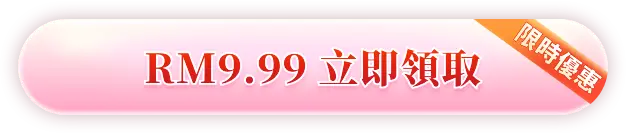
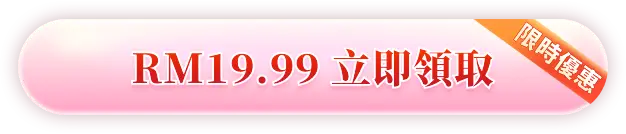
BugFix:引导页遮罩层类型错误、感情报告价格调整19.9

Changed region(s): [[0.1821, 0.3582, 0.7891, 0.6866]]

diff --git a/src/pages/lucky_year_report/home/index.vue b/src/pages/lucky_year_report/home/index.vue
@@ -622,21 +622,21 @@ export default {
         Toast(this.$t('tips-3'));
         return;
       }
-      if (time_obj.year > 2000 || time_obj.year < 1960) {
-        utils.firebaseLogEvent(
-          '10005',
-          '-10002',
-          'click_2024wealty_main',
-          'click',
-          {
-            args_name: 'click_2024wealty_main',
-            channel: utils.getFBChannel(),
-            click_type: 'error',
-          }
-        );
-        Toast(this.$t('tips-5'));
-        return;
-      }
+      // if (time_obj.year > 2000 || time_obj.year < 1960) {
+      //   utils.firebaseLogEvent(
+      //     '10005',
+      //     '-10002',
+      //     'click_2024wealty_main',
+      //     'click',
+      //     {
+      //       args_name: 'click_2024wealty_main',
+      //       channel: utils.getFBChannel(),
+      //       click_type: 'error',
+      //     }
+      //   );
+      //   Toast(this.$t('tips-5'));
+      //   return;
+      // }
       if (!this.privacyChecked) {
         utils.firebaseLogEvent(
           '10005',

diff --git a/src/pages/weigh_bone/result/index.vue b/src/pages/weigh_bone/result/index.vue
@@ -1,6 +1,6 @@
 <template>
   <div :class="['main', show_pop_modal? 'hidden-scroll': '']">    
-    <ResultPopup product_key="h5_emotion2024" @change_pop_modal="change_pop_modal" :transfer_code="fortune.transfer_code|| ''" /> 
+    <ResultPopup product_key="h5_weigh_bone" @change_pop_modal="change_pop_modal" :transfer_code="fortune.transfer_code|| ''" /> 
     <userInfo v-if="user_info" :is_result="true" :user_detail="user_info" />
     <content-detail v-if="fortune.weight" :fortune="fortune" :card_index="1" />
     <content-detail

diff --git a/src/pages/guiguzi_fortune/result/index.vue b/src/pages/guiguzi_fortune/result/index.vue
@@ -1,6 +1,6 @@
 <template>
   <div :class="['detail', 'result-detail', show_pop_modal? 'hidden-scroll': '']">  
-    <ResultPopup product_key="h5_emotion2024" @change_pop_modal="change_pop_modal" :transfer_code="transfer_code|| ''" />
+    <ResultPopup product_key="h5_bai_gua" @change_pop_modal="change_pop_modal" :transfer_code="transfer_code|| ''" />
     <user-info v-if="extra_ce_suan.name" :extra_ce_suan="extra_ce_suan" />
     <div class="main-outer">
       <div class="main">

diff --git a/src/pages/career_fortune_2024/result/index.vue b/src/pages/career_fortune_2024/result/index.vue
@@ -1,6 +1,6 @@
 <template>
   <div :class="['detail', 'result-detail', show_pop_modal? 'hidden-scroll': '']">
-    <ResultPopup product_key="h5_emotion2024" @change_pop_modal="change_pop_modal" :transfer_code="result.transfer_code|| ''" />
+    <ResultPopup product_key="h5_career2024" @change_pop_modal="change_pop_modal" :transfer_code="result.transfer_code|| ''" />
     <user-info
       v-if="extra_ce_suan.name"
       :extra_ce_suan="extra_ce_suan"

diff --git a/src/pages/year_of_lucky_2024/result/index.vue b/src/pages/year_of_lucky_2024/result/index.vue
@@ -7,7 +7,7 @@
 -->
 <template>
   <div :class="['result', show_pop_modal? 'hidden-scroll': '']">   
-    <ResultPopup product_key="h5_emotion2024" @change_pop_modal="change_pop_modal" :transfer_code="fortune.transfer_code|| ''" />  
+    <ResultPopup product_key="h5_annual2024" @change_pop_modal="change_pop_modal" :transfer_code="fortune.transfer_code|| ''" />  
     <!-- <UserInfo
       :username="username"
       :sex="sex"

diff --git a/src/pages/lucky_year_report/result/index.vue b/src/pages/lucky_year_report/result/index.vue
@@ -7,7 +7,7 @@
 -->
 <template>
   <div :class="['detail', 'result-detail', show_pop_modal? 'hidden-scroll': '']">    
-    <ResultPopup product_key="h5_emotion2024" @change_pop_modal="change_pop_modal" :transfer_code="transfer_code|| ''" />
+    <ResultPopup product_key="h5_wealth2024" @change_pop_modal="change_pop_modal" :transfer_code="transfer_code|| ''" />
     <top-banner />
     <img
       class="person-title"

diff --git a/src/pages/marriage_measure_overseas/result/index.vue b/src/pages/marriage_measure_overseas/result/index.vue
@@ -1,6 +1,6 @@
 <template>
   <div :class="['detail', 'result-detail', show_pop_modal? 'hidden-scroll': '']">  
-    <ResultPopup product_key="h5_emotion2024" @change_pop_modal="change_pop_modal" :transfer_code="transfer_code|| ''" />  
+    <ResultPopup product_key="h5_marriage" @change_pop_modal="change_pop_modal" :transfer_code="transfer_code|| ''" />  
     <top-banner />
 
     <!-- 新版信息start -->

diff --git a/src/pages/marriage_measure_overseas/home/index.vue b/src/pages/marriage_measure_overseas/home/index.vue
@@ -132,7 +132,7 @@
       <!-- 時間選擇控件 -->
       <DatetimePicker
         :male="sex"
-        start="1900"
+        start="1901"
         end="2020"
         :year="year"
         :month="month"
@@ -142,7 +142,7 @@
       />
       <NongliPicker
         :male="sex"
-        start="1900"
+        start="1901"
         end="2020"
         :year="year"
         :month="month"
